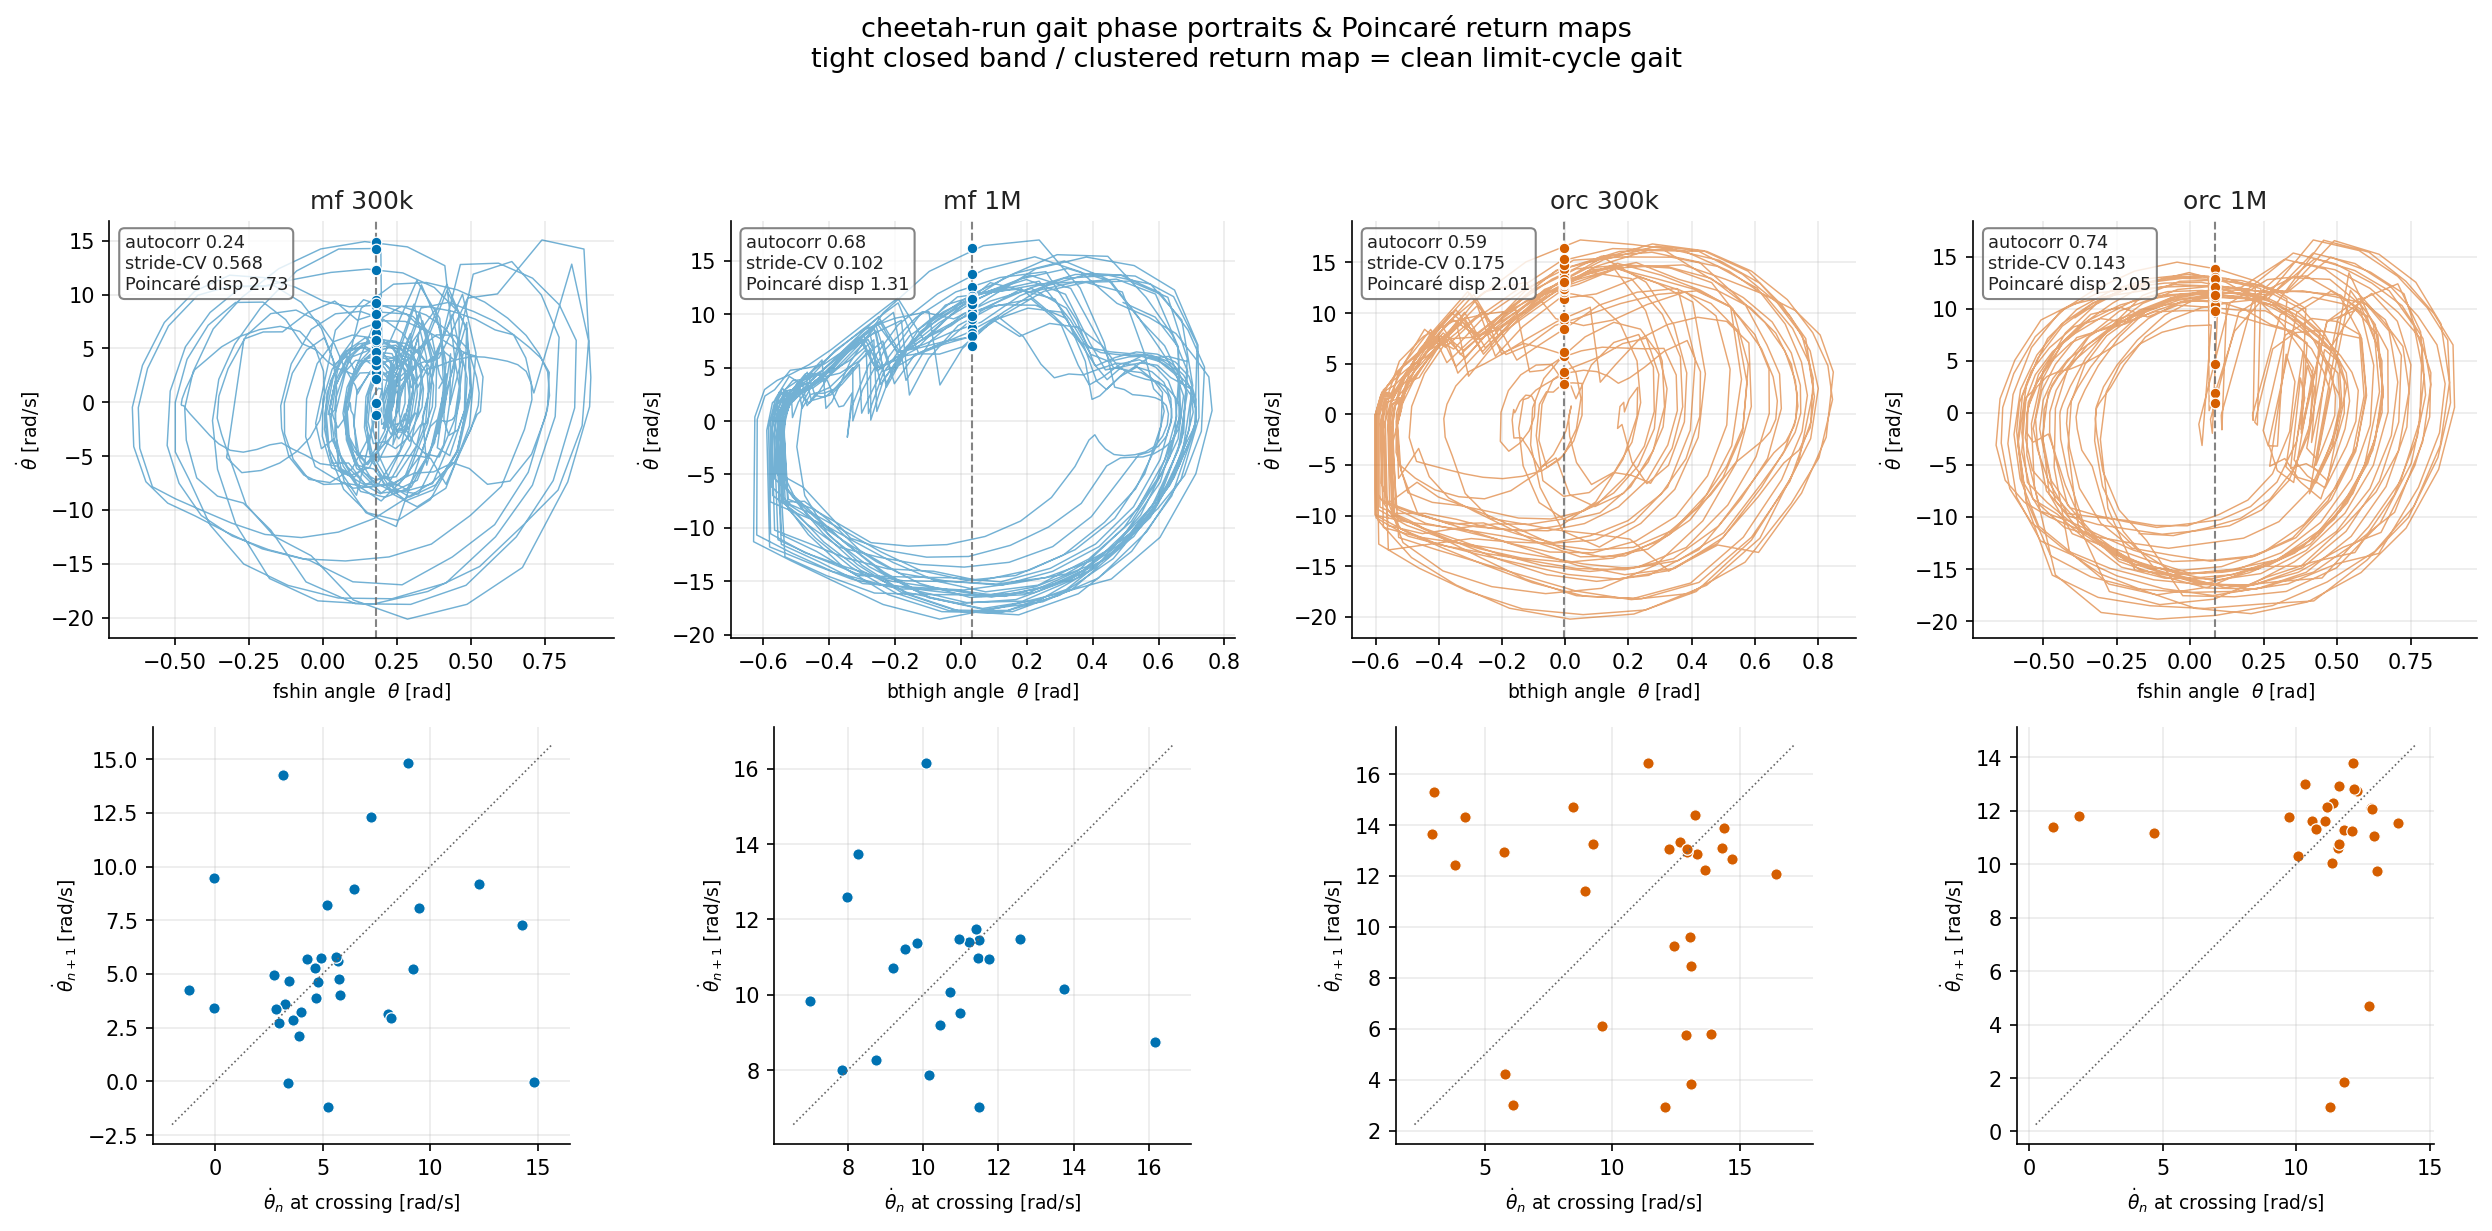
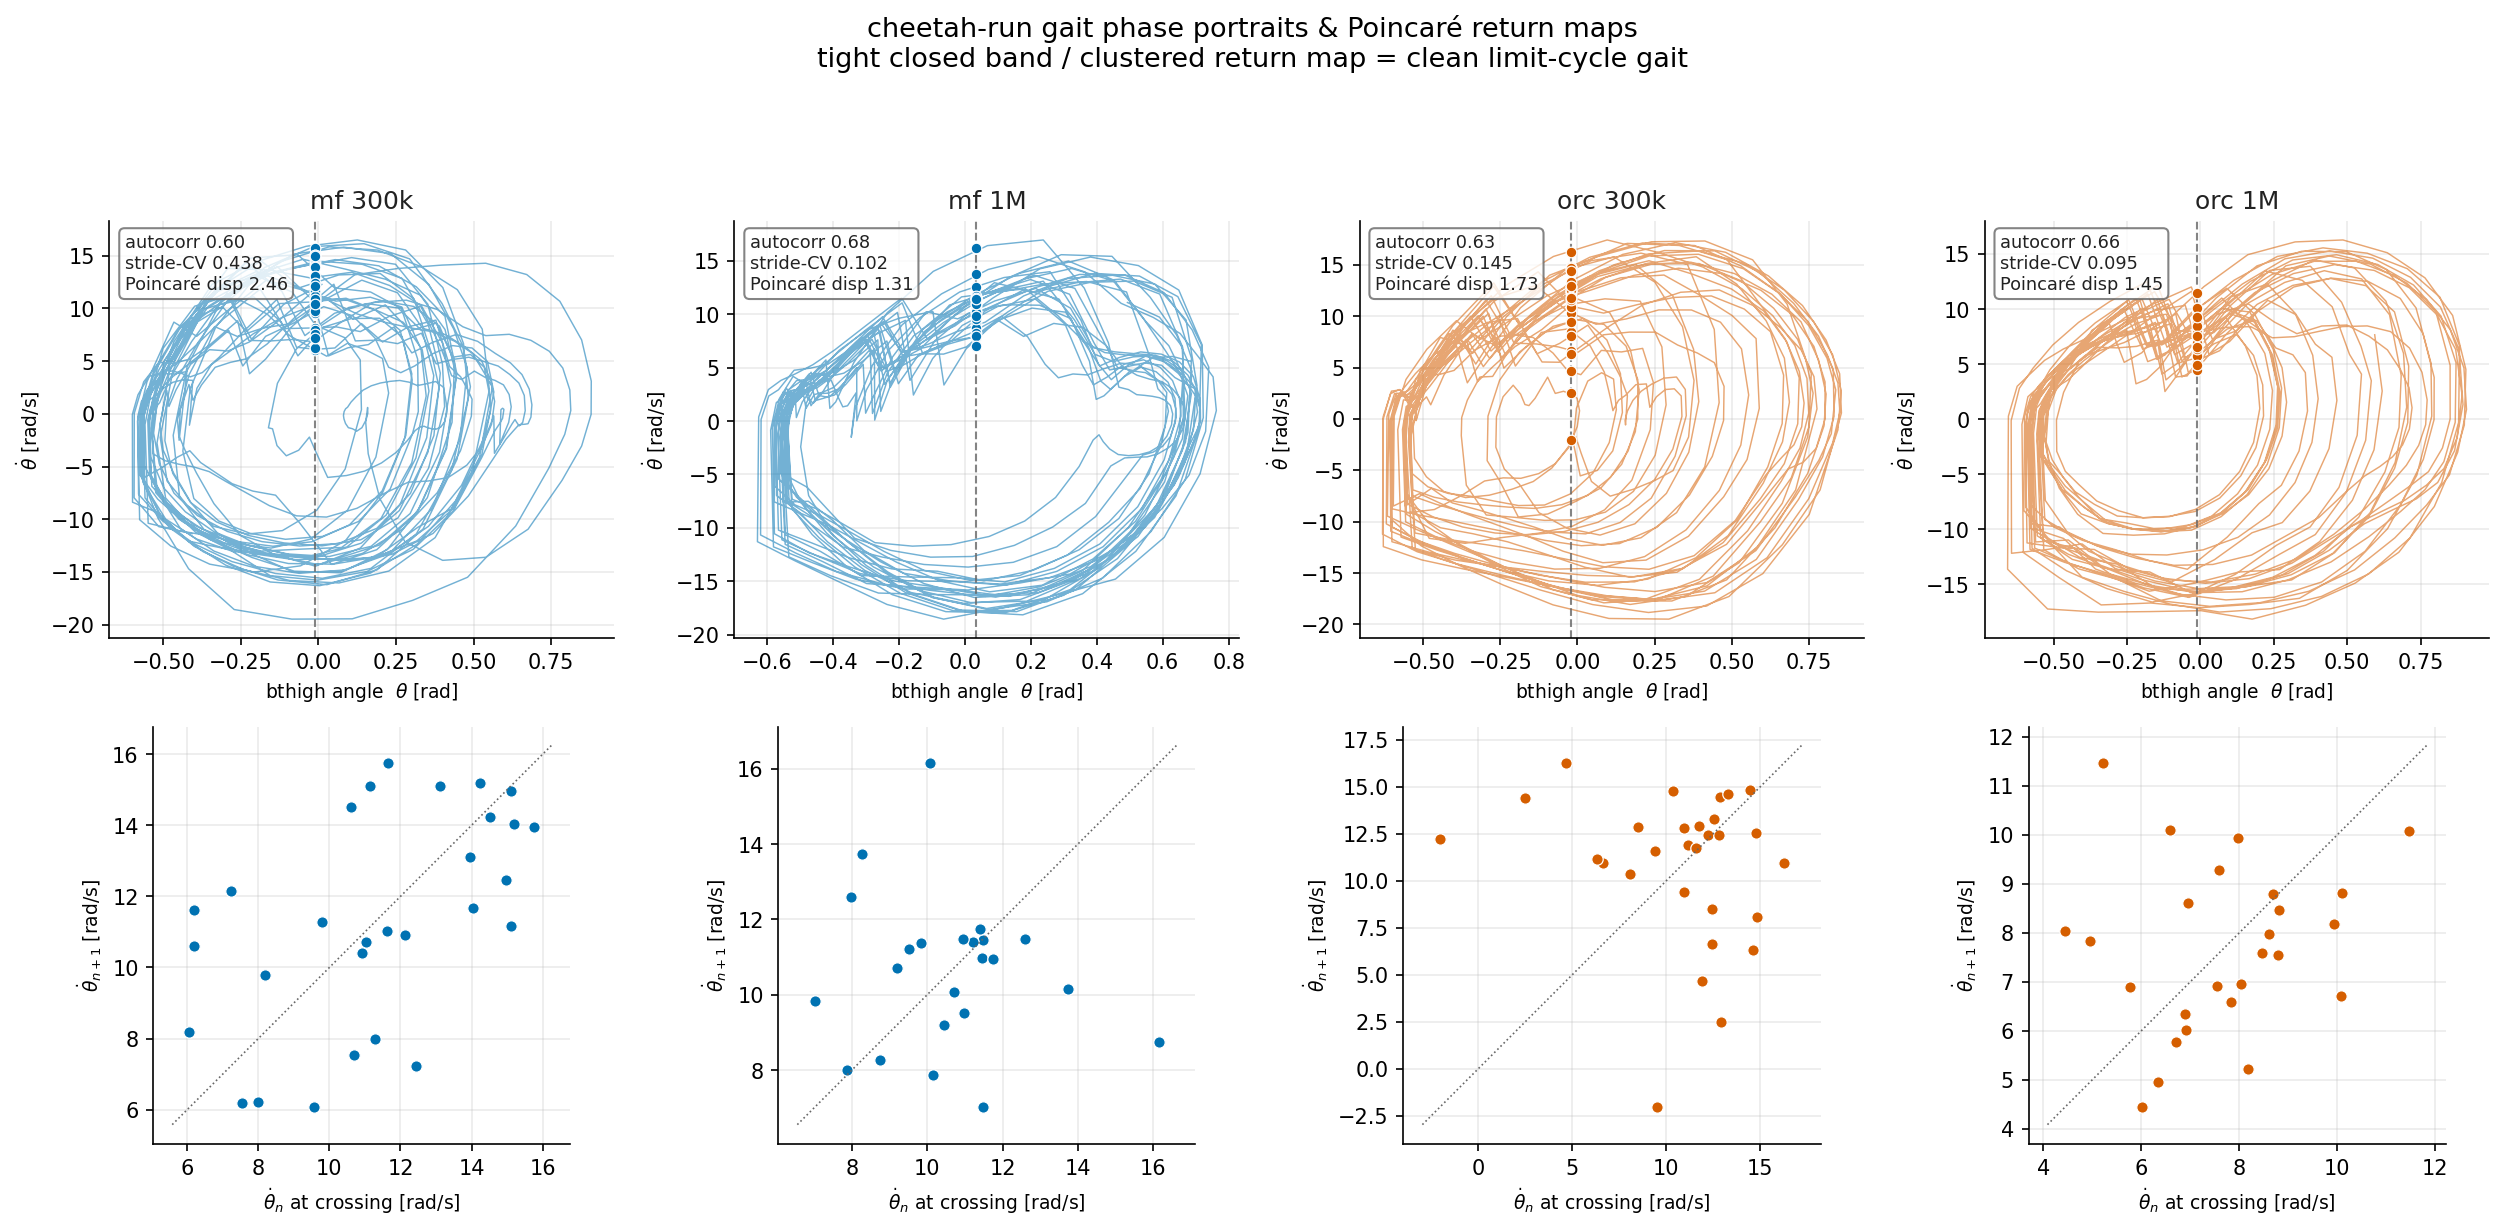
Pin reference joint in phase portraits (--joint) for apples-to-apples comparison
Backward-compatible ref_joint override threaded through _steady_reference ->
phase_portrait_data and gait_metrics (default None keeps per-episode auto-select),
plus a --joint flag on plot_cheetah_phase_portrait. Regenerate the four-mode
figure pinned to bthigh: same joint (and metrics) in every column. On bthigh,
buffer size dominates -- both 1M variants trace tight cycles (stride-CV ~0.10,
disp ~1.3-1.5) while mf-300k is the diffuse outlier (stride-CV 0.44); the
oracle's extra benefit at fixed buffer is modest.

diff --git a/evaluations/locomotion_metrics.py b/evaluations/locomotion_metrics.py
@@ -373,11 +373,16 @@ class _Steady:
 
 
 def _steady_reference(
-    roll: CheetahRollout, warmup_s: float, fmin: float, fmax: float
+    roll: CheetahRollout, warmup_s: float, fmin: float, fmax: float,
+    ref_joint: Optional[object] = None,
 ) -> Optional[_Steady]:
     """Resample the steady-cruise window to a uniform grid and pick the reference
     oscillator (most spectrally concentrated leg joint). Returns None if the
-    window is too short to analyse."""
+    window is too short to analyse.
+
+    ``ref_joint`` pins the reference oscillator to a fixed joint (name in
+    ``_JOINT_NAMES`` or its index) instead of auto-selecting per episode, so the
+    same joint can be compared across policies."""
     t = roll.time
     mask = t >= (t[0] + warmup_s) if len(t) else np.zeros(0, dtype=bool)
     tt = t[mask]
@@ -398,6 +403,9 @@ def _steady_reference(
     stats = [_spectral_stats(s, fs, fmin, fmax) for s in joints + feet]
     joint_pf = np.array([stats[i]["peak_frac"] for i in range(len(joints))], dtype=float)
     ref_i = int(np.nanargmax(joint_pf)) if np.any(np.isfinite(joint_pf)) else 0
+    if ref_joint is not None:
+        ref_i = (_JOINT_NAMES.index(ref_joint) if isinstance(ref_joint, str)
+                 else int(ref_joint))
     return _Steady(fs, grid, joints, jvel, feet, stats, ref_i, _detrend(joints[ref_i]))
 
 
@@ -420,6 +428,7 @@ def gait_metrics(
     fmax: float = 8.0,
     min_strides: int = 3,
     min_band_frac: float = 0.2,
+    ref_joint: Optional[object] = None,
 ) -> Dict[str, float]:
     """Gait-consistency battery over the steady-cruise window.
 
@@ -431,7 +440,7 @@ def gait_metrics(
     ``band_power_frac`` and ``n_strides`` are still reported so the absence of a
     gait is visible.
     """
-    st = _steady_reference(roll, warmup_s, fmin, fmax)
+    st = _steady_reference(roll, warmup_s, fmin, fmax, ref_joint=ref_joint)
     if st is None:
         return dict(_NAN_GAIT)
 
@@ -481,6 +490,7 @@ def phase_portrait_data(
     warmup_s: float = 2.0,
     fmin: float = 0.5,
     fmax: float = 8.0,
+    ref_joint: Optional[object] = None,
 ) -> Optional[Dict[str, Any]]:
     """Reference-joint (θ, θ̇) trajectory and Poincaré section for one episode.
 
@@ -491,7 +501,7 @@ def phase_portrait_data(
     spread of θ̇ across crossings is the 2-D shadow of ``poincare_dispersion``.
     Returns None if the steady window is too short.
     """
-    st = _steady_reference(roll, warmup_s, fmin, fmax)
+    st = _steady_reference(roll, warmup_s, fmin, fmax, ref_joint=ref_joint)
     if st is None:
         return None
     theta = st.joints[st.ref_i]
@@ -510,7 +520,8 @@ def phase_portrait_data(
         "time": st.grid,
         "section_theta": float(theta.mean()),
         "cross_theta_dot": np.asarray(cross_theta_dot),
-        "metrics": gait_metrics(roll, warmup_s=warmup_s, fmin=fmin, fmax=fmax),
+        "metrics": gait_metrics(roll, warmup_s=warmup_s, fmin=fmin, fmax=fmax,
+                                ref_joint=ref_joint),
     }
 
 

diff --git a/benchmarks/plot_cheetah_phase_portrait.py b/benchmarks/plot_cheetah_phase_portrait.py
@@ -48,7 +48,7 @@ def _color_for(label: str) -> str:
 
 def build_portrait_from_checkpoint(
     checkpoint: Optional[str], env, *, pi_arch, activation, deterministic_policy,
-    warmup_s: float, seed_reset: int = 0,
+    warmup_s: float, seed_reset: int = 0, ref_joint: Optional[object] = None,
 ) -> Optional[Dict[str, Any]]:
     if checkpoint is None:
         policy = lambda _o: env.action_space.sample()  # noqa: E731
@@ -61,7 +61,7 @@ def build_portrait_from_checkpoint(
     best = None
     for _ in range(3):
         roll = rollout_cheetah(policy, env)
-        pd = phase_portrait_data(roll, warmup_s=warmup_s)
+        pd = phase_portrait_data(roll, warmup_s=warmup_s, ref_joint=ref_joint)
         if pd is None:
             continue
         if best is None or pd["metrics"].get("n_strides", 0) > best["metrics"].get("n_strides", 0):
@@ -145,6 +145,10 @@ def main(argv: Optional[List[str]] = None) -> None:
     p.add_argument("--dt", type=float, default=0.01)
     p.add_argument("--episode-seconds", type=float, default=10.0)
     p.add_argument("--warmup-s", type=float, default=2.0)
+    p.add_argument("--joint", type=str, default=None,
+                   help="pin the reference joint across all policies "
+                        "(name: bthigh/bshin/bfoot/fthigh/fshin/ffoot, or index); "
+                        "default auto-selects per episode")
     p.add_argument("--seed", type=int, default=0)
     p.add_argument("--out", type=str, default="results/cheetah_phase_portraits.png")
     args = p.parse_args(argv)
@@ -164,6 +168,7 @@ def main(argv: Optional[List[str]] = None) -> None:
         build_portrait_from_checkpoint(
             ckpt, env, pi_arch=pi_arch, activation=args.activation,
             deterministic_policy=args.deterministic_policy, warmup_s=args.warmup_s,
+            ref_joint=args.joint,
         )
         for ckpt in checkpoints
     ]